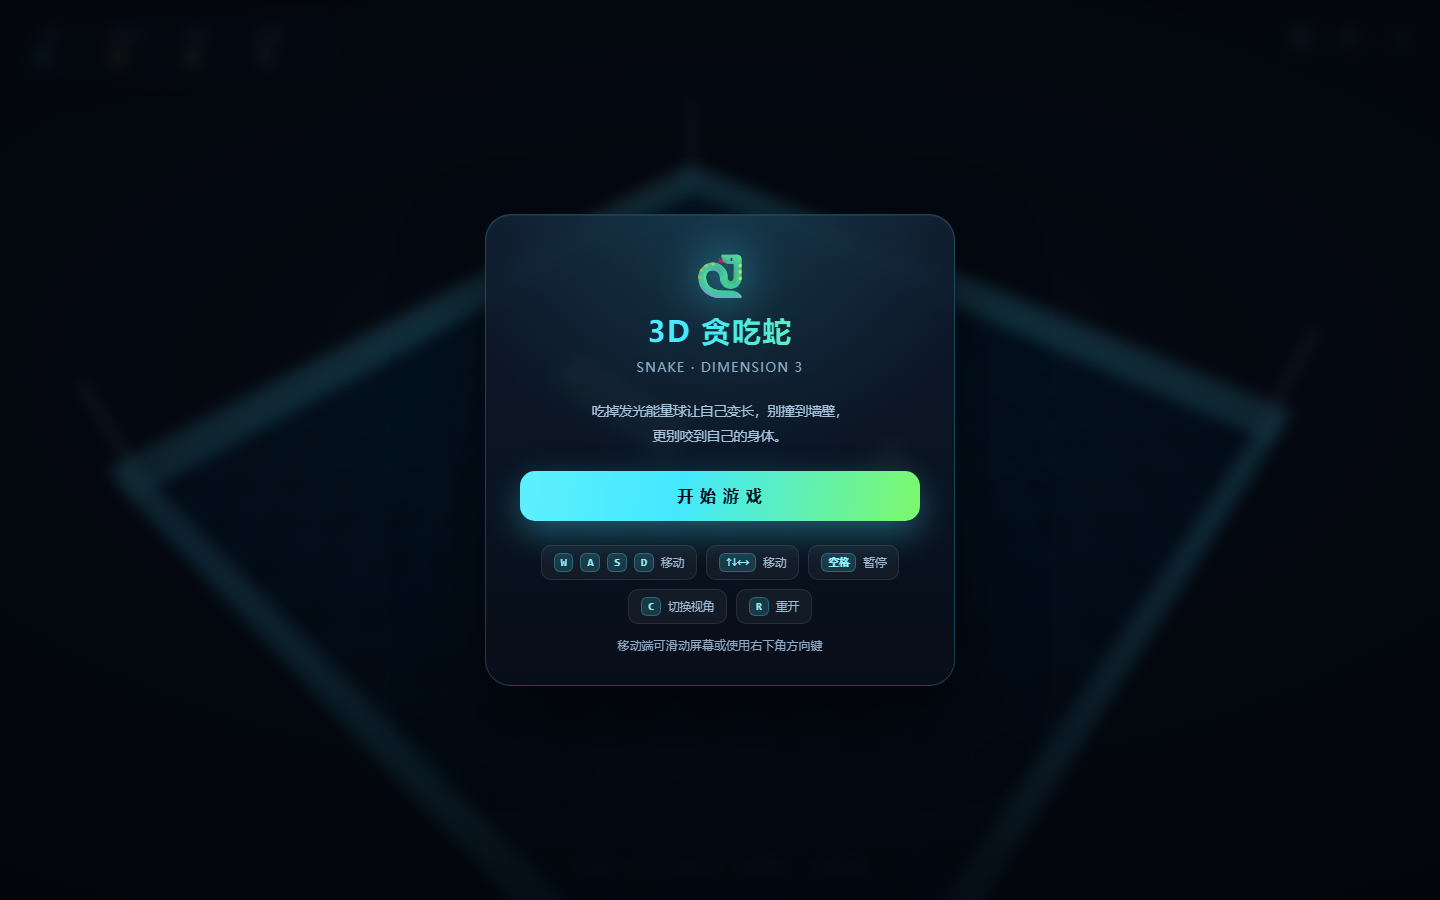
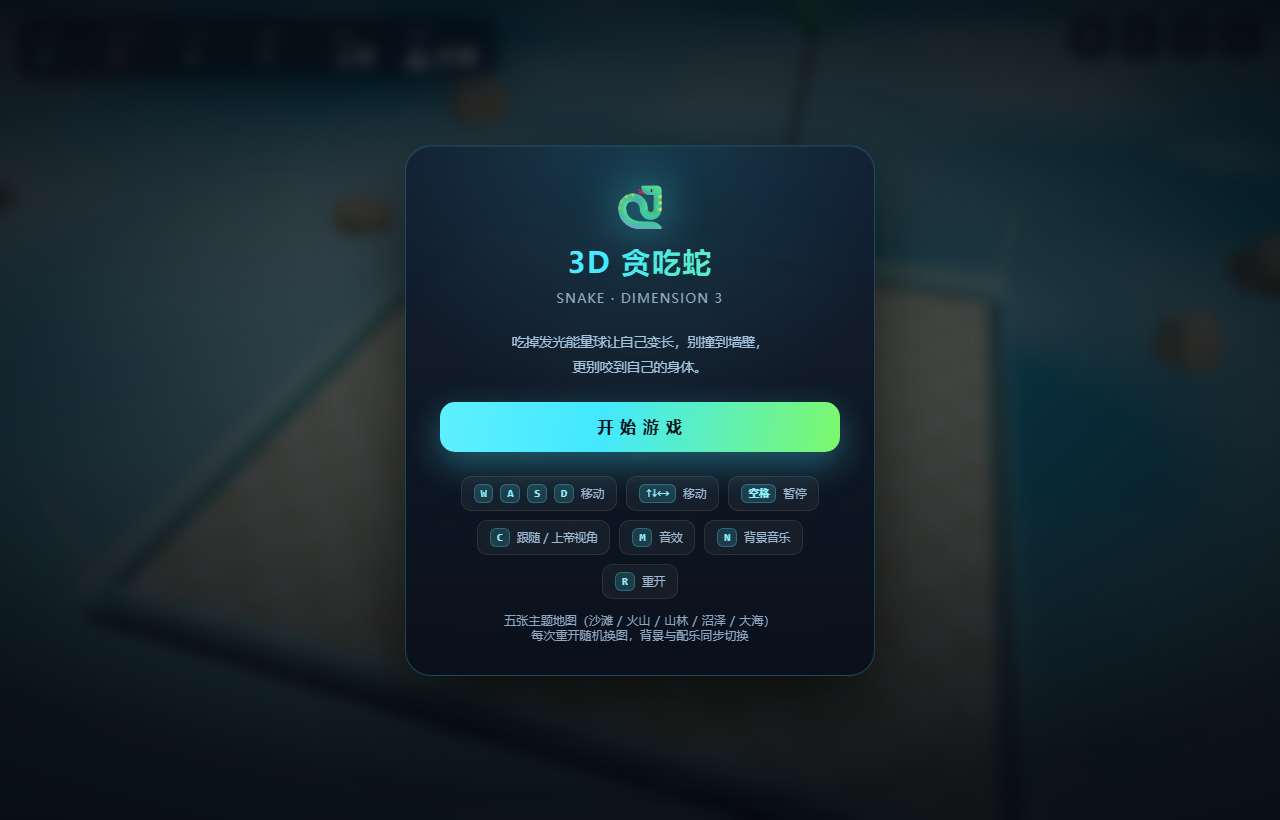
chore: 版本号 1.0.1，README 更新主题地图/蛇形模型/配乐特性与封面截图

diff --git a/README.md b/README.md
@@ -10,10 +10,13 @@
 
 ## ✨ 特性
 
-- **真实 3D 渲染**：Three.js + WebGL，20×20 霓虹棋盘、发光能量球、实时阴影与粒子爆散特效
-- **跟随镜头**：相机平滑追焦蛇头，偏航角插值转向不突兀；一键切换 立体俯瞰 / 上帝视角
+- **真实 3D 渲染**：Three.js + WebGL，20×20 棋盘、发光能量球、实时阴影与粒子爆散特效
+- **蛇形身体**：连续管状蛇身（非方块堆叠）——锥形轮廓、扁圆截面、背部鳞纹、爬行时的侧向行进波；蛇头带竖瞳、眉脊与分叉信子，转向会压弯
+- **五张主题地图**：沙滩 / 火山 / 山林 / 沼泽 / 大海，每次重开随机换图——天空雾色、地面、水面（海面 / 岩浆 / 浊水）、灯光、食物配色、环境道具与氛围粒子整套切换
+- **程序化配乐**：五套音阶 / 节奏 / 音色全部用 Web Audio 实时合成（无音频文件，离线可播），含反馈延迟混响与海浪、风声、岩浆轰鸣等噪声层
+- **双视角**：跟随视角（W 前进、A/D 左右转向）与上帝视角（方向键即屏幕方向），`C` 一键切换
 - **手感调校**：帧率无关的固定步长模拟 + 帧间插值，转向队列防止快速连按丢失输入
-- **完整规则**：自撞判定含"尾部让位"细节、吃到食物随机刷新且不与蛇身重叠、逐级加速（12 档封顶）
+- **完整规则**：自撞判定含"尾部让位"细节、吃到食物随机刷新且不与蛇身重叠、逐级加速（12 档封顶），进食时能看到食物沿身体滑向尾部的吞咽鼓包
 - **细节体验**：死亡震屏 + 红闪、8-bit 音效、失焦自动暂停、最高分本地存档
 - **跨端**：网页版零依赖单文件；桌面版完全离线，GPU 异常时自动降级软件渲染
 
@@ -21,11 +24,12 @@
 
 | 按键 | 功能 |
 | --- | --- |
-| `W A S D` / `方向键` | 控制方向 |
+| `W A S D` / `方向键` | 控制方向（跟随视角：W 前进、A/D 转向；上帝视角：即屏幕方向） |
 | `空格` | 暂停 / 继续 |
-| `C` | 切换视角（跟随 → 立体俯瞰 → 上帝视角） |
-| `R` / `Enter` | 重新开始 |
+| `C` | 切换视角（跟随 / 上帝） |
 | `M` | 音效开关 |
+| `N` | 背景音乐开关 |
+| `R` / `Enter` | 重新开始（随机换一张地图） |
 
 移动端：滑动屏幕或使用右下角虚拟方向键。
 
@@ -88,6 +92,8 @@ npm run dist:mac     # macOS：dmg + zip（x64 与 arm64）
 ## 🛠 技术要点
 
 - **模拟与渲染分离**：逻辑以固定步长推进（初始 175ms/步，随分数提速），渲染层对每节身体做帧间插值，任何刷新率下移动都平滑
+- **连续蛇身网格**：每帧把离散格子中心串成折线 → 拐角二次贝塞尔圆角 → 等弧长重采样 → 写入预分配的管状 `BufferGeometry`（锥度 / 扁圆截面 / 顶点色鳞纹，解析法线免算 `computeVertexNormals`）
+- **程序化音乐**：前瞻调度器按十六分音符排音（主旋律 / 双振荡器低音 / 噪声打击），只在音频上下文 `running` 且游戏进行中排音，避免浏览器无手势时积压音符
 - **自撞判定**：蛇尾本回合会移开的格子不算碰撞（仅在吃食物增长时例外），这是经典贪吃蛇最容易写错的细节
 - **镜头控制**：偏航角用最短角差插值（angleLerp），蛇急转弯时相机平滑跟随而非瞬间切换
 - **桌面版健壮性**：GPU 进程连续崩溃 3 次自动写入标记并以软件渲染重启，保证虚拟机 / 远程桌面环境可玩
